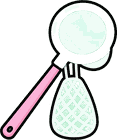
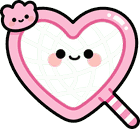
alfa 68a451e: Pop: la red es una red de pesca con aro de corazón (tarea #329)

diff --git a/alfa/index.html b/alfa/index.html
@@ -9,23 +9,23 @@
 <link rel="icon" type="image/png" href="core/img/fog-192.png">
 <link rel="apple-touch-icon" href="core/img/fog-192.png">
 <link rel="manifest" href="manifest.webmanifest">
-<link rel="stylesheet" href="core/fuentes/baloo-2.css?v=0d82c3e">
-<link rel="stylesheet" href="core/fuentes/luckiest-guy.css?v=0d82c3e">
-<link rel="stylesheet" href="core/css/base.css?v=0d82c3e">
-<link rel="stylesheet" href="estilo/web.css?v=0d82c3e">
-<link rel="stylesheet" href="estilo/pie.css?v=0d82c3e">
-<link rel="stylesheet" href="biblioteca/tienda.css?v=0d82c3e">
-<link rel="stylesheet" href="novedades/ventana.css?v=0d82c3e">
-<link rel="stylesheet" href="biblioteca/votos.css?v=0d82c3e">
-<link rel="stylesheet" href="biblioteca/cuenta.css?v=0d82c3e">
-<link rel="stylesheet" href="biblioteca/portada-nueva.css?v=0d82c3e">
-<link rel="stylesheet" href="biblioteca/portada-catalogo.css?v=0d82c3e">
-<link rel="stylesheet" href="biblioteca/portada.css?v=0d82c3e">
+<link rel="stylesheet" href="core/fuentes/baloo-2.css?v=4cb9983">
+<link rel="stylesheet" href="core/fuentes/luckiest-guy.css?v=4cb9983">
+<link rel="stylesheet" href="core/css/base.css?v=4cb9983">
+<link rel="stylesheet" href="estilo/web.css?v=4cb9983">
+<link rel="stylesheet" href="estilo/pie.css?v=4cb9983">
+<link rel="stylesheet" href="biblioteca/tienda.css?v=4cb9983">
+<link rel="stylesheet" href="novedades/ventana.css?v=4cb9983">
+<link rel="stylesheet" href="biblioteca/votos.css?v=4cb9983">
+<link rel="stylesheet" href="biblioteca/cuenta.css?v=4cb9983">
+<link rel="stylesheet" href="biblioteca/portada-nueva.css?v=4cb9983">
+<link rel="stylesheet" href="biblioteca/portada-catalogo.css?v=4cb9983">
+<link rel="stylesheet" href="biblioteca/portada.css?v=4cb9983">
 </head>
 <body>
-<script src="core/js/sistema/idioma-regla.js?v=0d82c3e"></script>
-<script src="idioma-web.js?v=0d82c3e"></script>
-<script src="menu.js?v=0d82c3e" data-base="" data-core="1" data-pagina=""></script>
+<script src="core/js/sistema/idioma-regla.js?v=4cb9983"></script>
+<script src="idioma-web.js?v=4cb9983"></script>
+<script src="menu.js?v=4cb9983" data-base="" data-core="1" data-pagina=""></script>
 <div class="nov-fondo" id="novedades" hidden>
   <div class="nov-caja" role="dialog" aria-modal="true" aria-labelledby="nov-titulo">
     <div class="nov-cabeza"><h2 class="ol" id="nov-titulo">NOVEDADES</h2><p id="nov-sub"></p></div>
@@ -408,8 +408,8 @@
   </section>
   <p class="note" id="pie-fansof">Fans Of™ · © 2026 Arkioner y Pepins · MicroBlizz · Todos los derechos reservados</p>
 </main>
-<script src="core/js/nucleo.js?v=0-a1471.e6bfb0b"></script>
-<script src="core/js/novedades.js?v=0d82c3e"></script>
+<script src="core/js/nucleo.js?v=0-a1472.68a451e"></script>
+<script src="core/js/novedades.js?v=4cb9983"></script>
 <script>
 // La cuenta de la web es la misma de los juegos (core/js/sistema/cuenta.js, mismo navegador = misma sesión). Aquí no hay partida que subir.
 const AJUSTES = { id: 'web', guardado: 'fansof-web' }, SAVE_KEY = AJUSTES.guardado, SAVE = {};
@@ -418,16 +418,16 @@ const HOOKS = {};
 function hook(name, fn) { (HOOKS[name] = HOOKS[name] || []).push(fn); }
 function fire(name, ...a) { let out = ''; for (const fn of HOOKS[name] || []) { const r = fn(...a); if (typeof r === 'string') out += r; } return out; }
 </script>
-<script src="core/js/sistema/cuenta.js?v=0d82c3e"></script>
-<script src="core/js/cuenta/dominio/roles.js?v=0d82c3e"></script>
-<script src="core/js/cuenta/aplicacion/roles-casos.js?v=0d82c3e"></script>
-<script src="core/js/cuenta/adaptadores/roles-servidor.js?v=0d82c3e"></script>
-<script src="core/js/cuenta/adaptadores/roles-almacen.js?v=0d82c3e"></script>
-<script src="core/js/cuenta/roles.js?v=0d82c3e"></script>
-<script src="core/js/sistema/flags.js?v=0d82c3e"></script>
-<script src="core/js/sistema/juegos-portada.js?v=0d82c3e"></script>
-<script src="core/js/sistema/juegos-portada-datos.js?v=0d82c3e"></script>
-<script src="estilo/estilo-nuevo.js?v=0d82c3e"></script>
+<script src="core/js/sistema/cuenta.js?v=4cb9983"></script>
+<script src="core/js/cuenta/dominio/roles.js?v=4cb9983"></script>
+<script src="core/js/cuenta/aplicacion/roles-casos.js?v=4cb9983"></script>
+<script src="core/js/cuenta/adaptadores/roles-servidor.js?v=4cb9983"></script>
+<script src="core/js/cuenta/adaptadores/roles-almacen.js?v=4cb9983"></script>
+<script src="core/js/cuenta/roles.js?v=4cb9983"></script>
+<script src="core/js/sistema/flags.js?v=4cb9983"></script>
+<script src="core/js/sistema/juegos-portada.js?v=4cb9983"></script>
+<script src="core/js/sistema/juegos-portada-datos.js?v=4cb9983"></script>
+<script src="estilo/estilo-nuevo.js?v=4cb9983"></script>
 <script>NUCLEO.idiomaSolo({ en: ['core/idioma/en-raiz.js', 'novedades/en.js', 'biblioteca/en.js', 'biblioteca/en-cuenta.js','games/rumble/idioma/en-7.js', 'games/td/idioma/en-2.js', 'games/survivors/idioma/en.js', 'games/crush/idioma/en-raiz.js', 'games/jump/idioma/en-raiz.js', 'games/taxi/idioma/en-raiz.js', 'games/dark/idioma/en-raiz.js', 'games/nova/idioma/en-raiz.js', 'games/nova/idioma/en-raiz-2.js', 'games/beams/idioma/en-raiz.js', 'games/snakes/idioma/en-raiz.js', 'games/merge/idioma/en-raiz.js', 'games/swipe/idioma/en-raiz.js', 'games/pop/idioma/en-raiz.js', 'games/panic/idioma/en-raiz.js', 'games/vikings/idioma/en-raiz.js', 'games/goose/idioma/en-raiz.js', 'games/asalto/idioma/en-raiz.js', 'games/kingdom/idioma/en-raiz.js', 'games/auto/idioma/en-raiz.js', 'games/shelter/idioma/en-raiz.js', 'games/soccer/idioma/en-raiz.js', 'games/wings/idioma/en-raiz.js', 'games/spy/idioma/en-raiz.js', 'games/air/idioma/en-raiz.js', 'games/basement/idioma/en-raiz.js', 'games/zombies/idioma/en-raiz.js', 'games/island/idioma/en-raiz.js', 'games/rumble-3d/idioma/en-raiz.js', 'games/roguelite/idioma/en-raiz.js', 'games/tactics-advance/idioma/en-raiz.js', 'games/rouflage/idioma/en-raiz.js', 'games/dungeons/idioma/en-raiz.js', 'games/karts/idioma/en-raiz.js', 'games/recruit/idioma/en-raiz.js', 'games/terminal-shock/idioma/en-raiz.js', 'games/ratkov/idioma/en-raiz.js', 'games/paperwork/idioma/en-raiz.js'] })</script>
 <script>
 // La versión y las novedades salen de los archivos de cada juego, así que esta página nunca se queda atrás.
@@ -453,26 +453,26 @@ const fail = id => () => {
 };
 
 </script>
-<script src="biblioteca/portada-juegos-regla.js?v=0d82c3e"></script>
-<script src="biblioteca/portada-juegos.js?v=0d82c3e"></script>
-<script src="novedades/lo-nuevo.js?v=0d82c3e"></script>
-<script src="novedades/ventana.js?v=0d82c3e"></script>
-<script src="biblioteca/grupos.js?v=0d82c3e"></script>
-<script src="biblioteca/agrupar.js?v=0d82c3e"></script>
-<script src="biblioteca/tienda.js?v=0d82c3e"></script>
-<script src="biblioteca/caras-cuenta.js?v=0d82c3e"></script>
-<script src="biblioteca/cuenta-perfil.js?v=0d82c3e"></script>
-<script src="biblioteca/cuenta-casos.js?v=0d82c3e"></script>
-<script src="biblioteca/cuenta-pestanas.js?v=0d82c3e"></script>
-<script src="biblioteca/cuenta-ajustes.js?v=0d82c3e"></script>
-<script src="biblioteca/cuenta-web.js?v=0d82c3e"></script>
-<script src="biblioteca/votos.js?v=0d82c3e"></script>
-<script src="biblioteca/alfa.js?v=0d82c3e"></script>
-<script src="biblioteca/portada-nueva.js?v=0d82c3e"></script>
-<script src="biblioteca/catalogo.js?v=0d82c3e"></script>
-<script src="biblioteca/jugados.js?v=0d82c3e"></script>
-<script src="biblioteca/portada-catalogo.js?v=0d82c3e"></script>
-<script src="core/js/sistema/analitica.js?v=0d82c3e"></script>
-<script src="pie.js?v=0d82c3e" defer></script>
+<script src="biblioteca/portada-juegos-regla.js?v=4cb9983"></script>
+<script src="biblioteca/portada-juegos.js?v=4cb9983"></script>
+<script src="novedades/lo-nuevo.js?v=4cb9983"></script>
+<script src="novedades/ventana.js?v=4cb9983"></script>
+<script src="biblioteca/grupos.js?v=4cb9983"></script>
+<script src="biblioteca/agrupar.js?v=4cb9983"></script>
+<script src="biblioteca/tienda.js?v=4cb9983"></script>
+<script src="biblioteca/caras-cuenta.js?v=4cb9983"></script>
+<script src="biblioteca/cuenta-perfil.js?v=4cb9983"></script>
+<script src="biblioteca/cuenta-casos.js?v=4cb9983"></script>
+<script src="biblioteca/cuenta-pestanas.js?v=4cb9983"></script>
+<script src="biblioteca/cuenta-ajustes.js?v=4cb9983"></script>
+<script src="biblioteca/cuenta-web.js?v=4cb9983"></script>
+<script src="biblioteca/votos.js?v=4cb9983"></script>
+<script src="biblioteca/alfa.js?v=4cb9983"></script>
+<script src="biblioteca/portada-nueva.js?v=4cb9983"></script>
+<script src="biblioteca/catalogo.js?v=4cb9983"></script>
+<script src="biblioteca/jugados.js?v=4cb9983"></script>
+<script src="biblioteca/portada-catalogo.js?v=4cb9983"></script>
+<script src="core/js/sistema/analitica.js?v=4cb9983"></script>
+<script src="pie.js?v=4cb9983" defer></script>
 </body>
 </html>

diff --git a/alfa/games/rouflage/index.html b/alfa/games/rouflage/index.html
@@ -8,7 +8,7 @@
 <meta name="description" content="Fans of Rouflage (juego): el escondite con pintura. Píntate como el suelo, congélate y que los becarios de Microblizz no te despidan. O coge la linterna y encuéntralos tú.">
 <link rel="icon" type="image/png" href="img/icono-192.png">
 <!-- nucleo.js, lo primero (antes de las fuentes y las hojas): pinta la splash de carga desde el primer momento (ADR 091) -->
-<script src="../../core/js/nucleo.js?v=0.2.83-a1471.e6bfb0b"></script>
+<script src="../../core/js/nucleo.js?v=0.2.83-a1472.68a451e"></script>
 <script>NUCLEO.fuentes('../../core/fuentes/baloo-2.css', '../../core/fuentes/luckiest-guy.css')</script>
 <script>NUCLEO.estilos('../../core/css/base.css', '../../core/css/menus.css', '../../core/css/menus-extra.css')</script>
 <script>NUCLEO.estilos('estilo.css', 'estilo-taller.css', 'estilo-pantallas.css', 'estilo-pvp.css', 'estilo-armario.css', 'estilo-menus.css', 'estilo-misiones.css', 'estilo-escenario.css', 'estilo-votos.css', 'estilo-gacha.css', 'estilo-compra.css', 'estilo-fin.css', 'estilo-talentos.css', 'estilo-chat.css', 'estilo-titulo.css', 'estilo-tienda.css', 'estilo-barras.css', 'estilo-tarjetas.css', 'estilo-barra.css', 'estilo-sala-viva.css', 'estilo-obra.css', 'estilo-ayuda.css', 'estilo-pintura.css', 'estilo-carga.css')</script>      <!-- la intro, la última: pisa el #carga de estilo.css (antes iba en línea dentro de #carga) -->

diff --git a/alfa/games/rumble-clasico/index.html b/alfa/games/rumble-clasico/index.html
@@ -15,7 +15,7 @@
 <!-- core/js/nucleo.js carga lo común y el juego. LA VERSIÓN SE ESCRIBE SOLO AQUÍ, en su ?v= -->
 <!-- GENERADO por herramientas/rumble_v2.py desde games/rumble/index.html: no editar a mano -->
 <script>try { const u = new URL(location.href); if (u.searchParams.get('nube') !== '0') { u.searchParams.set('nube', '0'); history.replaceState(null, '', u); } } catch (e) { /* sin dirección */ }</script>
-<script src="../../core/js/nucleo.js?v=0.9.176-a1471.e6bfb0b"></script>
+<script src="../../core/js/nucleo.js?v=0.9.176-a1472.68a451e"></script>
 <script>NUCLEO.fuentes('../../core/fuentes/baloo-2.css', '../../core/fuentes/luckiest-guy.css')</script>
 <script>NUCLEO.estilos('../../core/css/menus.css', '../../games/rumble/css/estilos-partida.css', '../../games/rumble/css/estilos-extra.css', '../../games/rumble/css/arena.css', '../../core/css/biblioteca.css', '../../games/rumble/css/facciones-y-jefes.css', '../../core/css/clasificacion.css', '../../games/rumble/css/frases.css', '../../games/rumble/css/mitica.css', '../../games/rumble/css/paletas.css')</script>
 

diff --git a/alfa/games/rumble-v2/index.html b/alfa/games/rumble-v2/index.html
@@ -15,7 +15,7 @@
 <!-- core/js/nucleo.js carga lo común y el juego. LA VERSIÓN SE ESCRIBE SOLO AQUÍ, en su ?v= -->
 <!-- GENERADO por herramientas/rumble_v2.py desde games/rumble/index.html: no editar a mano -->
 <script>try { const u = new URL(location.href); if (u.searchParams.get('nube') !== '0') { u.searchParams.set('nube', '0'); history.replaceState(null, '', u); } } catch (e) { /* sin dirección */ }</script>
-<script src="../../core/js/nucleo.js?v=0.9.176-a1471.e6bfb0b"></script>
+<script src="../../core/js/nucleo.js?v=0.9.176-a1472.68a451e"></script>
 <script>NUCLEO.fuentes('../../core/fuentes/baloo-2.css', '../../core/fuentes/luckiest-guy.css')</script>
 <script>NUCLEO.estilos('../../core/css/menus.css', '../../games/rumble/css/estilos-partida.css', '../../games/rumble/css/estilos-extra.css', '../../games/rumble/css/arena.css', '../../core/css/biblioteca.css', '../../games/rumble/css/facciones-y-jefes.css', '../../core/css/clasificacion.css', '../../games/rumble/css/frases.css', '../../games/rumble/css/mitica.css', '../../games/rumble/css/paletas.css')</script>
 

diff --git a/alfa/games/pop/index.html b/alfa/games/pop/index.html
@@ -6,7 +6,7 @@
 <meta name="theme-color" content="#1a1030">
 <title>Fans of Pop</title>
 <meta name="description" content="Fans of Pop: haz pop en las burbujas de un tablero para liberar a los slimes atrapados y llévalos contigo hasta el jefe. Un roguelike de puzles corto, táctil y relajado.">
-<script src="../../core/js/nucleo.js?v=0.6.2-a1471.e6bfb0b"></script>
+<script src="../../core/js/nucleo.js?v=0.6.2-a1472.68a451e"></script>
 <script>NUCLEO.fuentes('../../core/fuentes/fredoka.css')</script>
 <!-- ?v= es la versión de la demo: súbela al publicar -->
 <script>NUCLEO.estilos('../../core/css/base.css', '../../core/css/menus.css', 'css/pop.css', 'css/ayudas.css', 'css/cuenta.css', 'css/feria.css', 'css/primeros.css', 'css/companeros.css', 'css/victoria.css', 'css/victoria-panel.css', 'css/victoria-marco.css', 'css/pase.css', 'css/regalo.css', 'css/precios.css', 'css/edad.css', 'css/tienda-venta.css', 'css/tienda-perlas.css', 'css/tienda-vuelo.css', 'css/lola.css', 'css/portada.css', 'css/barras.css', 'css/camino.css', 'css/amigos.css', 'css/presenta.css')</script>

diff --git a/alfa/games/asalto/index.html b/alfa/games/asalto/index.html
@@ -6,7 +6,7 @@
 <meta name="theme-color" content="#141026">
 <title>Fans of Asalto</title>
 <meta name="description" content="Fans of Asalto: invoca a los Animales Locos en el Altar de 3x3 (tres runas iguales en línea traen a un héroe), únelos para subirlos de nivel, compra objetos con esencia y aguanta las oleadas de Microblizz hasta el jefe.">
-<script src="../../core/js/nucleo.js?v=0.6.4-a1471.e6bfb0b"></script>
+<script src="../../core/js/nucleo.js?v=0.6.4-a1472.68a451e"></script>
 <script>NUCLEO.fuentes('../../core/fuentes/jersey-10.css')</script>
 <!-- ?v= es la versión de la demo: súbela al publicar -->
 <script>NUCLEO.estilos('../../core/css/base.css', '../../core/css/menus.css', '../../core/css/medidor-anuncios.css', 'css/asalto.css', 'css/asalto-tema.css', 'css/asalto-leyendas.css', 'css/asalto-compras.css')</script>

diff --git a/alfa/games/jump/index.html b/alfa/games/jump/index.html
@@ -8,7 +8,7 @@
 <meta name="description" content="Fans of Jump: el prólogo de los Animales Locos. Microblizz arrasa el bosque y su topadora gigante empuja una ola de barro río arriba. Salta con CrazyBunny de tronco en tronco y rescata a su pandilla.">
 <link rel="icon" type="image/png" href="img/icono-192.png">
 <link rel="manifest" href="manifest.webmanifest">
-<script src="../../core/js/nucleo.js?v=0.3.34-a1471.e6bfb0b"></script>
+<script src="../../core/js/nucleo.js?v=0.3.34-a1472.68a451e"></script>
 <script>NUCLEO.fuentes('../../core/fuentes/baloo-2.css', '../../core/fuentes/luckiest-guy.css')</script>
 <!-- ?v= es la versión del juego (la misma en la web y en la app): súbela al publicar y pon su entrada en js/novedades.js -->
 <script>NUCLEO.estilos('../../core/css/base.css', '../../core/css/menus.css')</script>

diff --git a/alfa/games/karts/index.html b/alfa/games/karts/index.html
@@ -8,7 +8,7 @@
 <meta name="description" content="Fans of Karts (juego): carreras de karts en pixel art de consola portátil con los líderes de Fans of Rumble. Tres pistas, seis pilotos, objetos con mala idea y Microblizz, que ha comprado la carrera.">
 <link rel="icon" type="image/png" href="img/favicon.png">
 <link rel="apple-touch-icon" href="img/icon-192.png">
-<script src="../../core/js/nucleo.js?v=0.7.33-a1471.e6bfb0b"></script>
+<script src="../../core/js/nucleo.js?v=0.7.33-a1472.68a451e"></script>
 <script>NUCLEO.estilos('../../core/css/base.css', '../../core/css/menus.css', '../../core/css/menus-tienda.css', '../../core/css/menus-extra.css', 'css/tienda.css', 'css/pvp.css')</script>
 <script>NUCLEO.fuentes('../../core/fuentes/baloo-2.css', '../../core/fuentes/luckiest-guy.css')</script>
 <style>

diff --git a/alfa/games/zombies/index.html b/alfa/games/zombies/index.html
@@ -6,7 +6,7 @@
 <meta name="theme-color" content="#0b0d12">
 <title>Fans of Zombies</title>
 <meta name="description" content="Fans of Zombies: supervivencia en la ciudad nevada de Microblizz después del parche 1.0. Come, bebe, duerme, registra y no hagas ruido: los fans zombificados lo oyen todo. Para PC, con teclado y ratón.">
-<script src="../../core/js/nucleo.js?v=0.14.4-a1471.e6bfb0b"></script>
+<script src="../../core/js/nucleo.js?v=0.14.4-a1472.68a451e"></script>
 <script>NUCLEO.fuentes('../../core/fuentes/vt323.css', '../../core/fuentes/russo-one.css', '../../core/fuentes/permanent-marker.css', '../../core/fuentes/special-elite.css')</script>
 <script src="https://cdnjs.cloudflare.com/ajax/libs/three.js/r128/three.min.js"></script>
 <!-- ?v= es la versión de la demo: súbela al publicar -->

diff --git a/alfa/games/rumble/index.html b/alfa/games/rumble/index.html
@@ -13,7 +13,7 @@
 <link rel="icon" type="image/png" href="img/icono-192.png">
 <link rel="apple-touch-icon" href="img/icono-192.png">
 <!-- core/js/nucleo.js carga lo común y el juego. LA VERSIÓN SE ESCRIBE SOLO AQUÍ, en su ?v= -->
-<script src="../../core/js/nucleo.js?v=0.9.176-a1471.e6bfb0b"></script>
+<script src="../../core/js/nucleo.js?v=0.9.176-a1472.68a451e"></script>
 <script>NUCLEO.fuentes('../../core/fuentes/baloo-2.css', '../../core/fuentes/luckiest-guy.css')</script>
 <script>NUCLEO.estilos('../../core/css/menus.css', 'css/estilos-partida.css', 'css/estilos-extra.css', 'css/arena.css', '../../core/css/biblioteca.css', 'css/facciones-y-jefes.css', '../../core/css/clasificacion.css', 'css/frases.css', 'css/mitica.css', 'css/paletas.css')</script>
 

diff --git a/alfa/games/paperwork/index.html b/alfa/games/paperwork/index.html
@@ -8,7 +8,7 @@
 <meta name="description" content="Fans Of Paperwork: baja planta a planta por el archivo de Microblizz, rebusca en los archivadores y atasca la Trituradora con su propio papeleo. Prototipo en desarrollo.">
 <meta name="robots" content="noindex">
 <link rel="icon" type="image/png" href="img/icono-192.png">
-<script src="../../core/js/nucleo.js?v=0.11.4-a1471.e6bfb0b"></script>
+<script src="../../core/js/nucleo.js?v=0.11.4-a1472.68a451e"></script>
 <script>NUCLEO.fuentes('../../core/fuentes/baloo-2.css', '../../core/fuentes/luckiest-guy.css')</script>
 <!-- ?v= es la versión del prototipo: súbela al cambiarlo -->
 <script>NUCLEO.estilos('../../core/css/base.css', '../../core/css/medidor-anuncios.css', 'css/paperwork.css')</script>

diff --git a/alfa/games/spy/index.html b/alfa/games/spy/index.html
@@ -6,7 +6,7 @@
 <meta name="theme-color" content="#070d1c">
 <title>Fans of Spy: Operación Torre</title>
 <meta name="description" content="Fans of Spy: Operación Torre. Sigilo por turnos con cartas, en 3D con aire de cómic: cuela a CrazyBunny en la torre de Microblizz sin que te vean los Becarios, con Lola guiándote por radio.">
-<script src="../../core/js/nucleo.js?v=0.3.2-a1471.e6bfb0b"></script>
+<script src="../../core/js/nucleo.js?v=0.3.2-a1472.68a451e"></script>
 <script>NUCLEO.fuentes('../../core/fuentes/baloo-2.css', '../../core/fuentes/luckiest-guy.css')</script>
 <!-- ?v= es la versión de la demo: súbela al publicar -->
 <script>NUCLEO.estilos('../../core/css/base.css', '../../core/css/menus.css', 'css/spy.css')</script>
